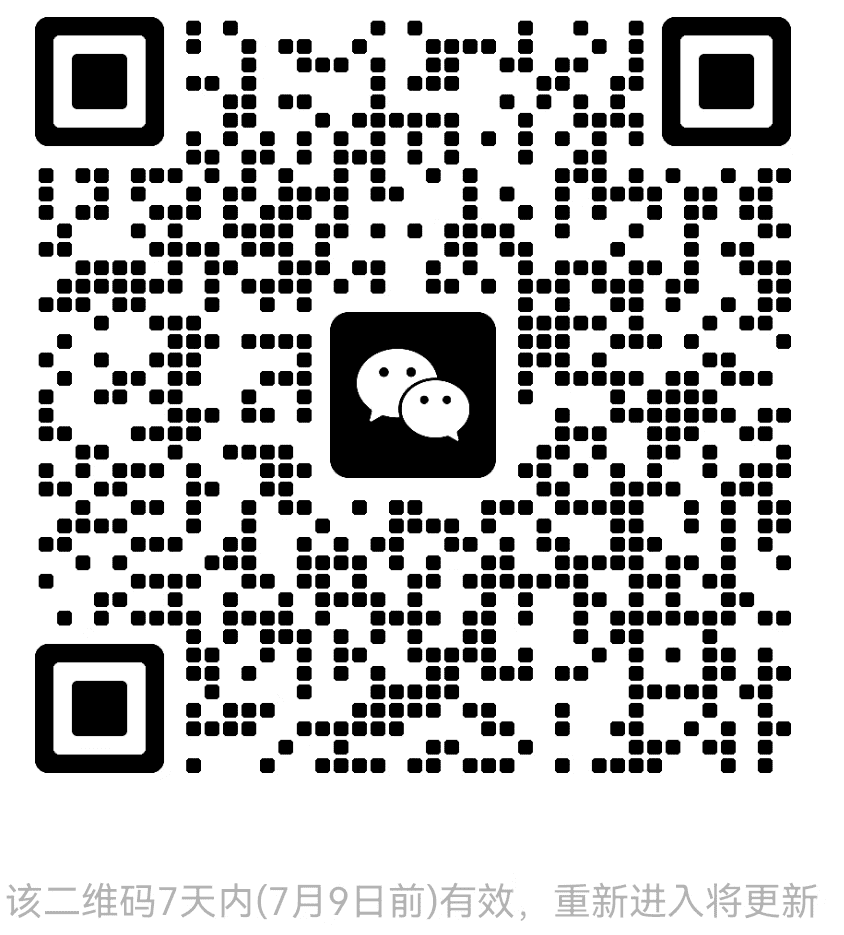
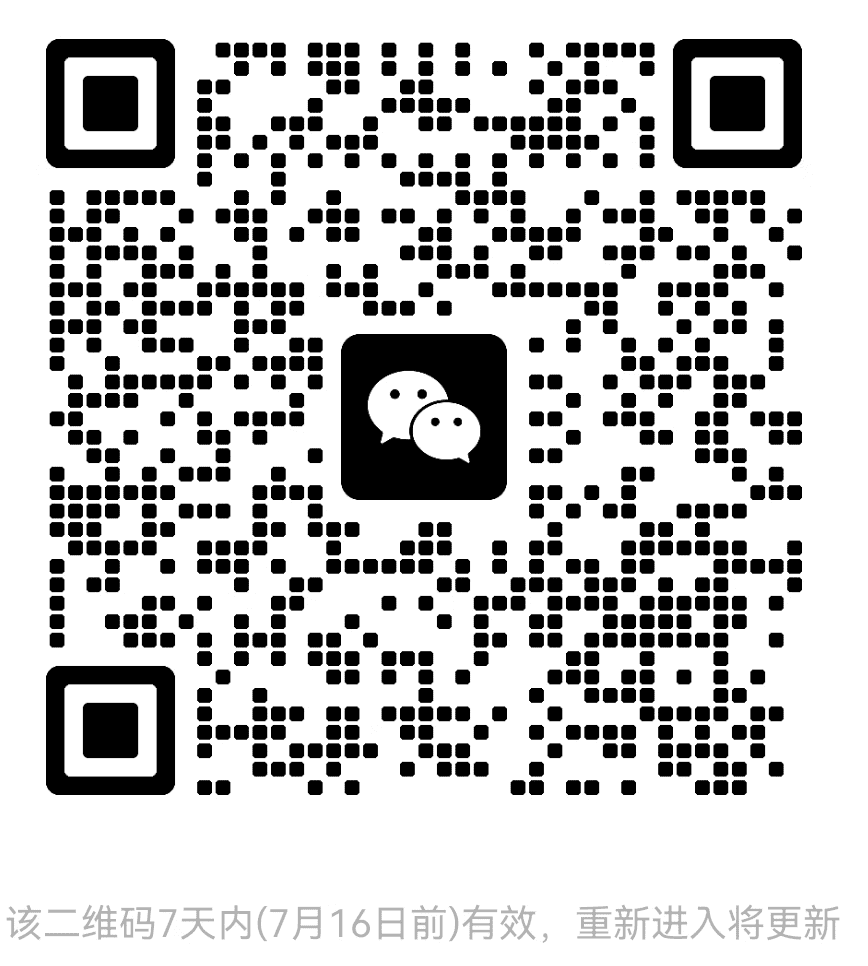
Update Readme

diff --git a/README-zh.md b/README-zh.md
@@ -8,7 +8,7 @@
 [![Percentage of issues still open](http://isitmaintained.com/badge/open/jd-opensource/joylive-agent.svg)](http://isitmaintained.com/project/jd-opensource/joylive-agent "Percentage of issues still open")
 [![Slack Status](https://img.shields.io/badge/slack-join_chat-white.svg?logo=slack&style=social)](https://joylivehq.slack.com)
 
-<img src="docs/image/weixin.png" title="该二维码有效期截止到2025/07/09" width="150"  />
+<img src="docs/image/weixin.png" title="该二维码有效期截止到2025/07/16" width="150"  />
 
 [English](./README.md) | 简体中文
 

diff --git a/README.md b/README.md
@@ -8,7 +8,7 @@
 [![Percentage of issues still open](http://isitmaintained.com/badge/open/jd-opensource/joylive-agent.svg)](http://isitmaintained.com/project/jd-opensource/joylive-agent "Percentage of issues still open")
 [![Slack Status](https://img.shields.io/badge/slack-join_chat-white.svg?logo=slack&style=social)](https://joylivehq.slack.com)
 
-<img src="docs/image/weixin.png" title="The QR code is valid until 2025/07/09" width="150" />
+<img src="docs/image/weixin.png" title="The QR code is valid until 2025/07/16" width="150" />
 
 English | [简体中文](./README-zh.md)
 

diff --git a/RELEASE.md b/RELEASE.md
@@ -14,7 +14,8 @@
 10. Added support for JWT authentication 
 11. Enhanced Dubbo framework compatibility and support 
 12. Improved message routing in multi-active scenarios 
-13. Fixed miscellaneous issues
+13. Improved the graceful shutdown process by rejecting new requests, deregistering instances first, and waiting for existing requests to complete before shutting down the thread pool, with a default timeout of 10 seconds.
+14. Fixed miscellaneous issues
 
 ## 1.7.0
 

diff --git a/RELEASE-zh.md b/RELEASE-zh.md
@@ -14,7 +14,8 @@
 10. 新增支持JWT认证
 11. 完善Dubbo的支持 
 12. 完善消息的多活路由 
-13. 修复其它问题
+13. 完善了优雅关闭流程，拒绝新请求，先注销实例，等待现有请求处理完成后关闭线程池，默认等待超时时间为10秒。
+14. 修复其它问题
 
 ## 1.7.0
 
